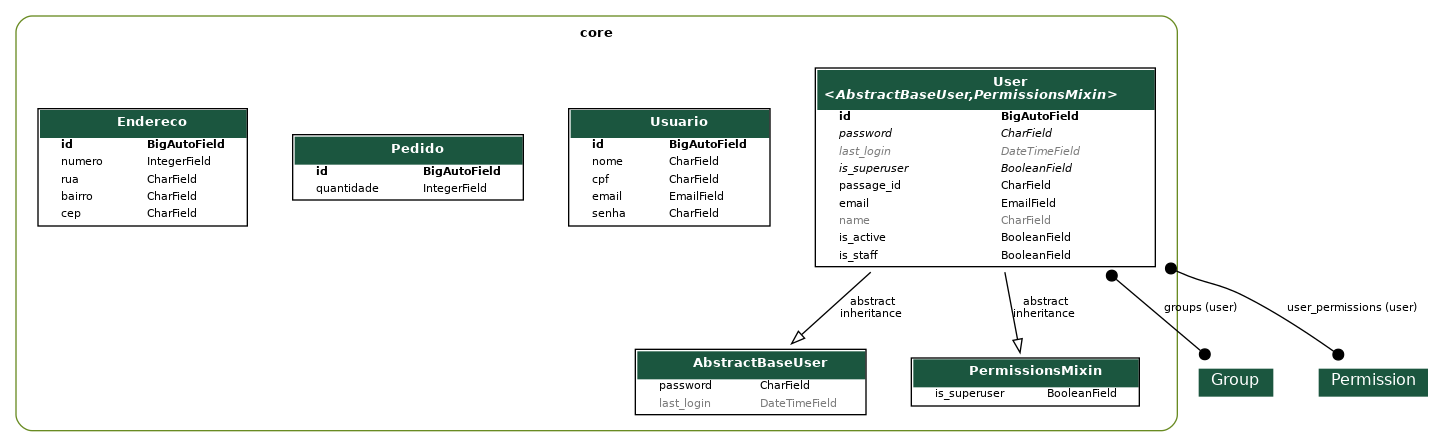
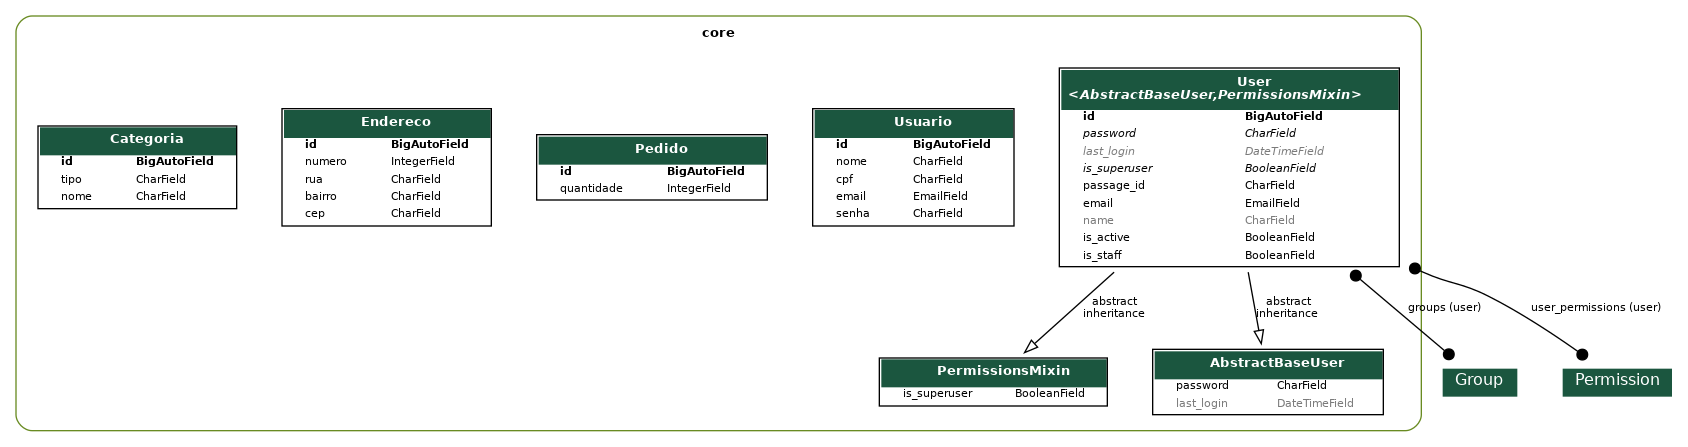
feat:criação do model e api categoria

diff --git a/app/urls.py b/app/urls.py
@@ -1,5 +1,6 @@
 from django.contrib import admin
 from django.urls import include, path
+from core.views.categoria import CategoriaViewSet
 from core.views.endereco import EnderecoViewSet
 from core.views.pedido import PedidosViewSet
 from core.views.usuario import UsuariosViewSet
@@ -14,10 +15,13 @@ from core.views import UserViewSet
 
 router = DefaultRouter()
 
-router.register(r'usuarios', UserViewSet, basename='users')
-router.register(r'usuario', UsuariosViewSet, basename='usuarios')
+router.register(r'users', UserViewSet, basename='users')
+router.register(r'usuarios', UsuariosViewSet, basename='usuarios')
 router.register(r'pedidos', PedidosViewSet, basename='pedidos')
 router.register(r'endereços',EnderecoViewSet, basename='endereços')
+router.register(r'categorias', CategoriaViewSet, basename='categorias')
+
+
 urlpatterns = [
     path('admin/', admin.site.urls),
     # OpenAPI 3

diff --git a/core/migrations/0009_categoria.py b/core/migrations/0009_categoria.py
@@ -1,0 +1,21 @@
+# Generated by Django 5.1.7 on 2025-06-06 17:36
+
+from django.db import migrations, models
+
+
+class Migration(migrations.Migration):
+
+    dependencies = [
+        ('core', '0008_endereco_numero'),
+    ]
+
+    operations = [
+        migrations.CreateModel(
+            name='Categoria',
+            fields=[
+                ('id', models.BigAutoField(auto_created=True, primary_key=True, serialize=False, verbose_name='ID')),
+                ('tipo', models.CharField(max_length=100)),
+                ('nome', models.CharField(max_length=100)),
+            ],
+        ),
+    ]

diff --git a/core/views/categoria.py b/core/views/categoria.py
@@ -1,0 +1,8 @@
+from rest_framework.viewsets import ModelViewSet
+
+from core.models import Categoria
+from core.serializers import CategoriaSerializer
+
+class CategoriaViewSet(ModelViewSet):
+    queryset = Categoria.objects.all()
+    serializer_class = CategoriaSerializer

diff --git a/core/models/categoria.py b/core/models/categoria.py
@@ -1,0 +1,9 @@
+from django.db import models
+
+class Categoria(models.Model):
+
+   tipo = models.CharField(max_length=100, blank=False, null=False )
+   nome = models.CharField(max_length=100, blank=False, null=False)
+
+def __str__(self):
+        return f"{self.nome}  "

diff --git a/core/serializers/categoria.py b/core/serializers/categoria.py
@@ -1,0 +1,8 @@
+from rest_framework.serializers import ModelSerializer
+
+from core.models import Categoria
+
+class CategoriaSerializer(ModelSerializer):
+    class Meta:
+        model = Categoria
+        fields = "__all__"

diff --git a/core/serializers/__init__.py b/core/serializers/__init__.py
@@ -2,3 +2,4 @@ from .user import UserSerializer
 from .usuario import UsuariosSerializers
 from .pedido import PedidosSerializers
 from .endereco import EnderecoSerializer
+from .categoria import CategoriaSerializer

diff --git a/core/admin.py b/core/admin.py
@@ -55,3 +55,4 @@ admin.site.register(models.User, UserAdmin)
 admin.site.register(models.Usuario)
 admin.site.register(models.Pedido)
 admin.site.register(models.Endereco)
+admin.site.register(models.Categoria)

diff --git a/core/views/__init__.py b/core/views/__init__.py
@@ -2,3 +2,4 @@ from .user import UserViewSet
 from .usuario import UsuariosViewSet
 from .pedido import PedidosViewSet
 from .endereco import EnderecoViewSet
+from .categoria import CategoriaViewSet

diff --git a/core/models/__init__.py b/core/models/__init__.py
@@ -2,3 +2,4 @@ from .user import User
 from .usuario import Usuario
 from .pedido import Pedido
 from .endereco import Endereco
+from .categoria import Categoria
